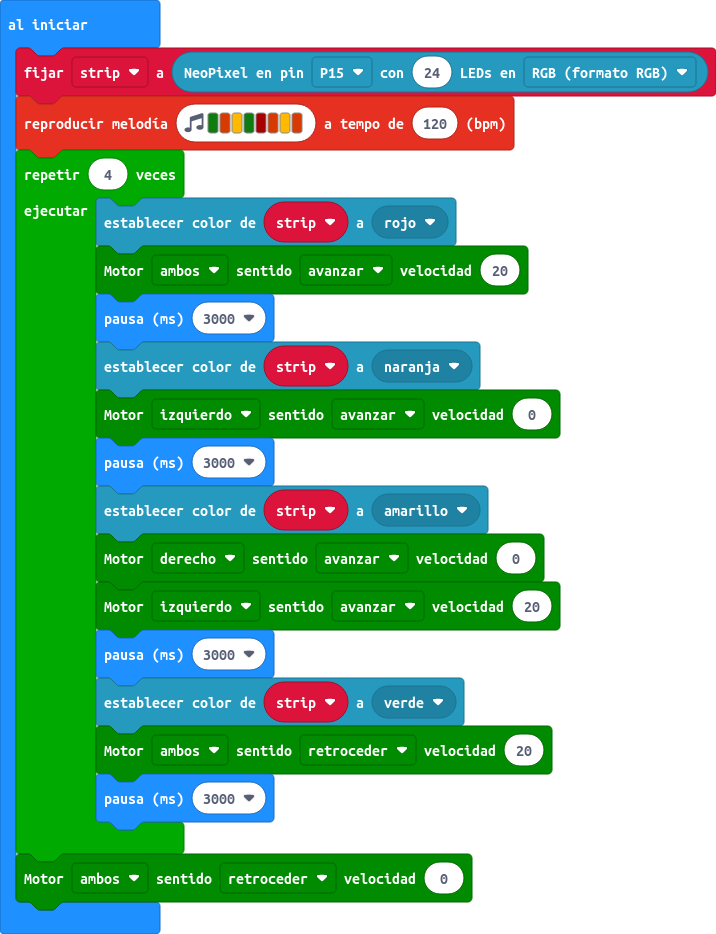
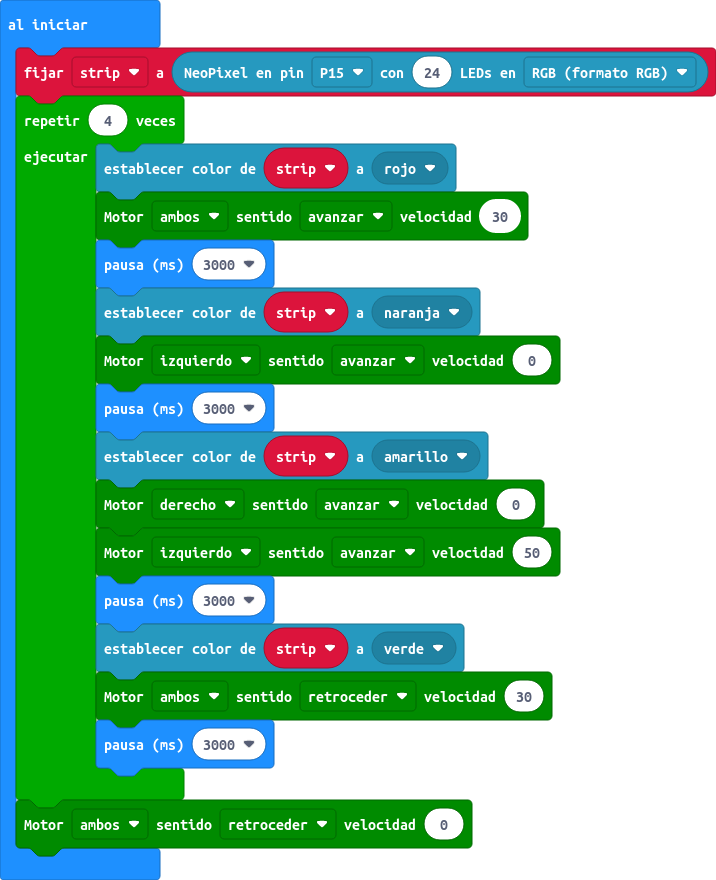
Actualizar main.blocks, main.ts

diff --git a/main.ts b/main.ts
@@ -1,18 +1,17 @@
 let strip = neopixel.create(DigitalPin.P15, 24, NeoPixelMode.RGB)
-music.playMelody("G B A G C5 B A B ", 120)
 for (let index = 0; index < 4; index++) {
     strip.showColor(neopixel.colors(NeoPixelColors.Red))
-    maqueen.motorRun(maqueen.Motors.All, maqueen.Dir.CW, 20)
+    maqueen.motorRun(maqueen.Motors.All, maqueen.Dir.CW, 30)
     basic.pause(3000)
     strip.showColor(neopixel.colors(NeoPixelColors.Orange))
     maqueen.motorRun(maqueen.Motors.M1, maqueen.Dir.CW, 0)
     basic.pause(3000)
     strip.showColor(neopixel.colors(NeoPixelColors.Yellow))
     maqueen.motorRun(maqueen.Motors.M2, maqueen.Dir.CW, 0)
-    maqueen.motorRun(maqueen.Motors.M1, maqueen.Dir.CW, 20)
+    maqueen.motorRun(maqueen.Motors.M1, maqueen.Dir.CW, 50)
     basic.pause(3000)
     strip.showColor(neopixel.colors(NeoPixelColors.Green))
-    maqueen.motorRun(maqueen.Motors.All, maqueen.Dir.CCW, 20)
+    maqueen.motorRun(maqueen.Motors.All, maqueen.Dir.CCW, 30)
     basic.pause(3000)
 }
 maqueen.motorRun(maqueen.Motors.All, maqueen.Dir.CCW, 0)
